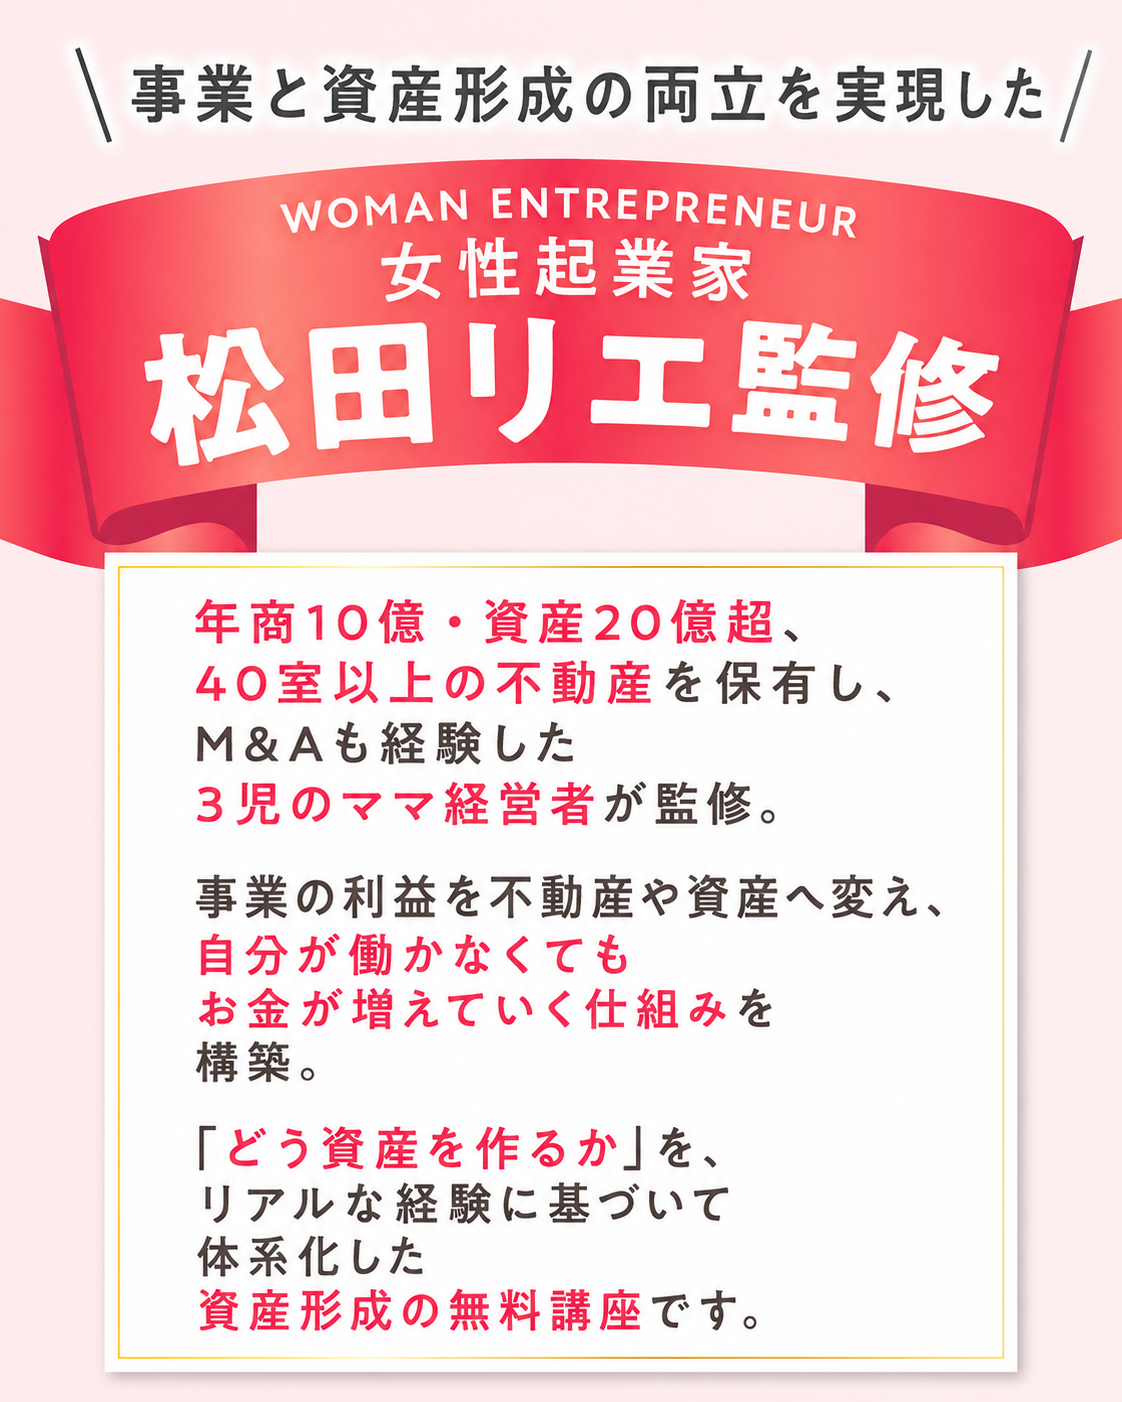
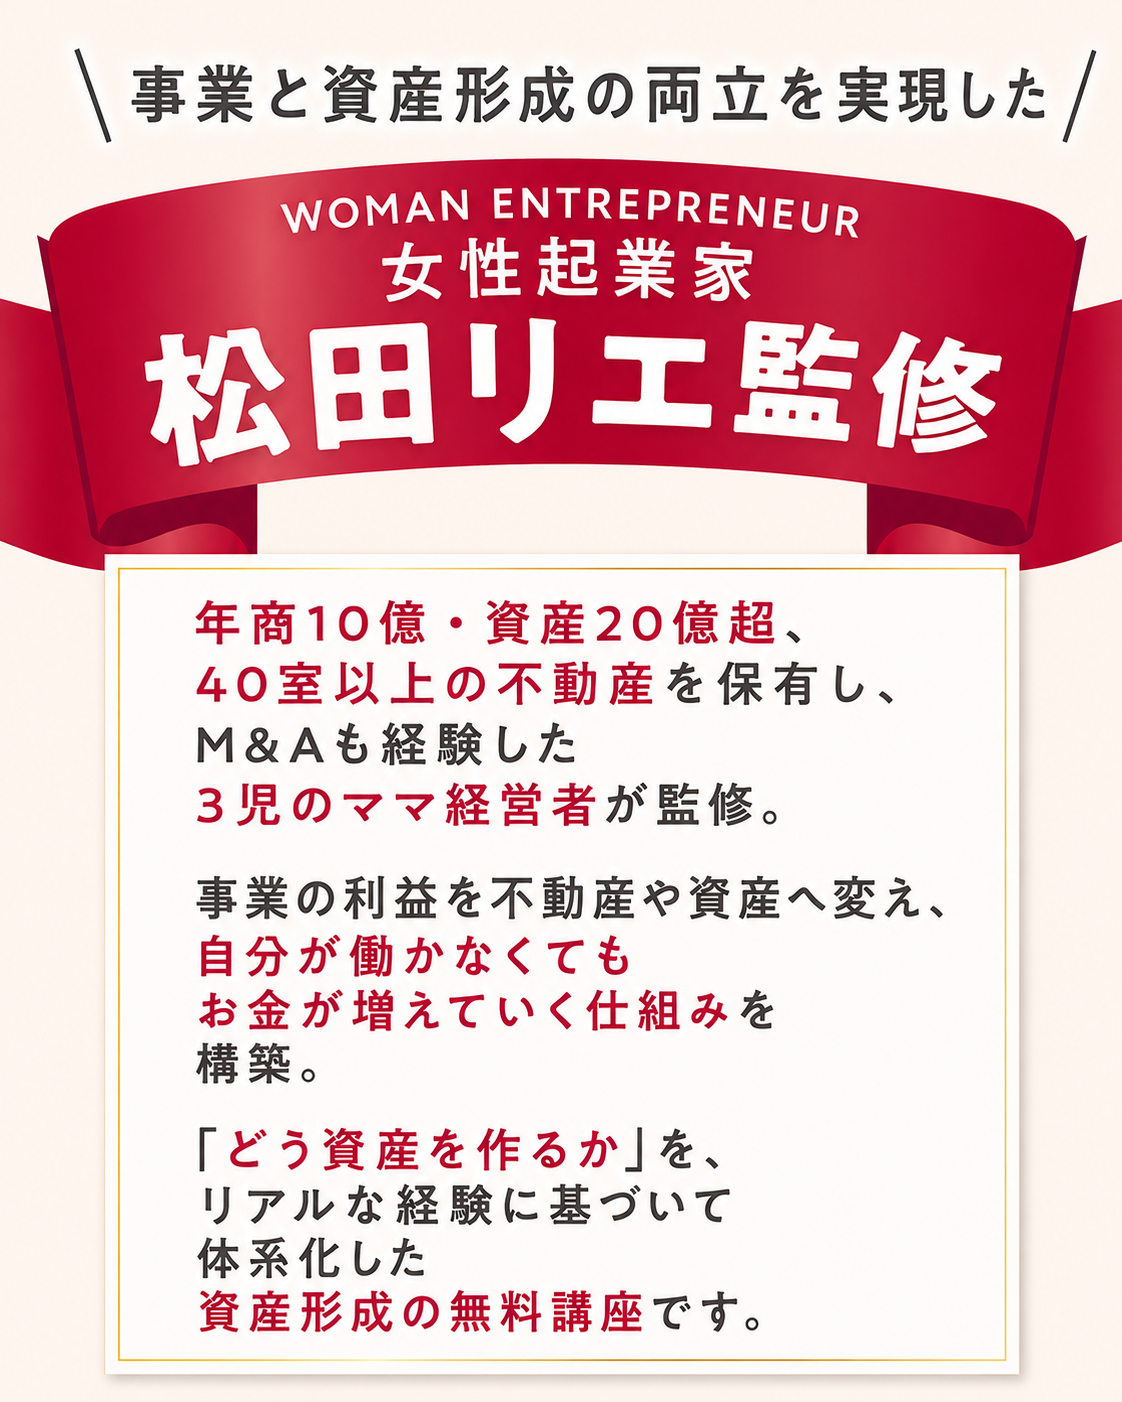
監修・プロフィール画像を落ち着いた深紅ベースの色修正版に差し替え（FVの配色に統一）

diff --git a/index.html b/index.html
@@ -940,8 +940,8 @@ footer .f-copy{margin-top:14px;font-size:12px;opacity:.95;}
   <!-- ============ 7. 監修者セクション ============ -->
   <section class="kanshu">
     <img class="profile-img" src="images/profile-head.png?v=1" alt="年商1億を資産10億へ。3児のママ経営者が実践する女性起業家の資産形成術。" width="1012" height="278">
-    <img class="profile-img" src="images/kanshu-band.png?v=1" alt="事業と資産形成の両立を実現した 女性起業家 松田リエ監修。年商10億・資産20億超、40室以上の不動産を保有し、M&Aも経験した3児のママ経営者が監修。事業の利益を不動産や資産へ変え、自分が働かなくてもお金が増えていく仕組みを構築。「どう資産を作るか」を、リアルな経験に基づいて体系化した資産形成の無料講座です。" width="1122" height="1402">
-    <img class="profile-img" src="images/rie-profile.png?v=1" alt="松田リエ Rie Matsuda。3児のママ経営者でありながら年商10億・資産20億超を実現／40室以上の不動産を保有し事業利益を資産へ変える仕組みを構築／M&Aも経験しお金を増やす経営を実践／累計受講生4,500名以上／YouTube登録者22万人・総フォロワー70万人超・テレビ出演16回以上／出版17冊・累計43万部突破" width="971" height="1709">
+    <img class="profile-img" src="images/kanshu-band.png?v=2" alt="事業と資産形成の両立を実現した 女性起業家 松田リエ監修。年商10億・資産20億超、40室以上の不動産を保有し、M&Aも経験した3児のママ経営者が監修。事業の利益を不動産や資産へ変え、自分が働かなくてもお金が増えていく仕組みを構築。「どう資産を作るか」を、リアルな経験に基づいて体系化した資産形成の無料講座です。" width="1122" height="1402">
+    <img class="profile-img" src="images/rie-profile.png?v=2" alt="松田リエ Rie Matsuda。3児のママ経営者でありながら年商10億・資産20億超を実現／40室以上の不動産を保有し事業利益を資産へ変える仕組みを構築／M&Aも経験しお金を増やす経営を実践／累計受講生4,500名以上／YouTube登録者22万人・総フォロワー70万人超・テレビ出演16回以上／出版17冊・累計43万部突破" width="962" height="1725">
     <img class="profile-img" src="images/jisseki.png?v=5" alt="実績画像・メディア掲載多数。テレビ出演写真／週刊女性・THE TIME,・美的.com・Yahoo!ニュース・小学館・女子SPA!・毎日新聞・朝日新聞・産経新聞・読売新聞・中日新聞・壮快ほか雑誌掲載多数。累計受講生4,500名以上／YouTube総登録者22万人以上／総フォロワー70万人突破／累計43万部突破／テレビ出演16回以上" width="724" height="1369">
   </section>
 
